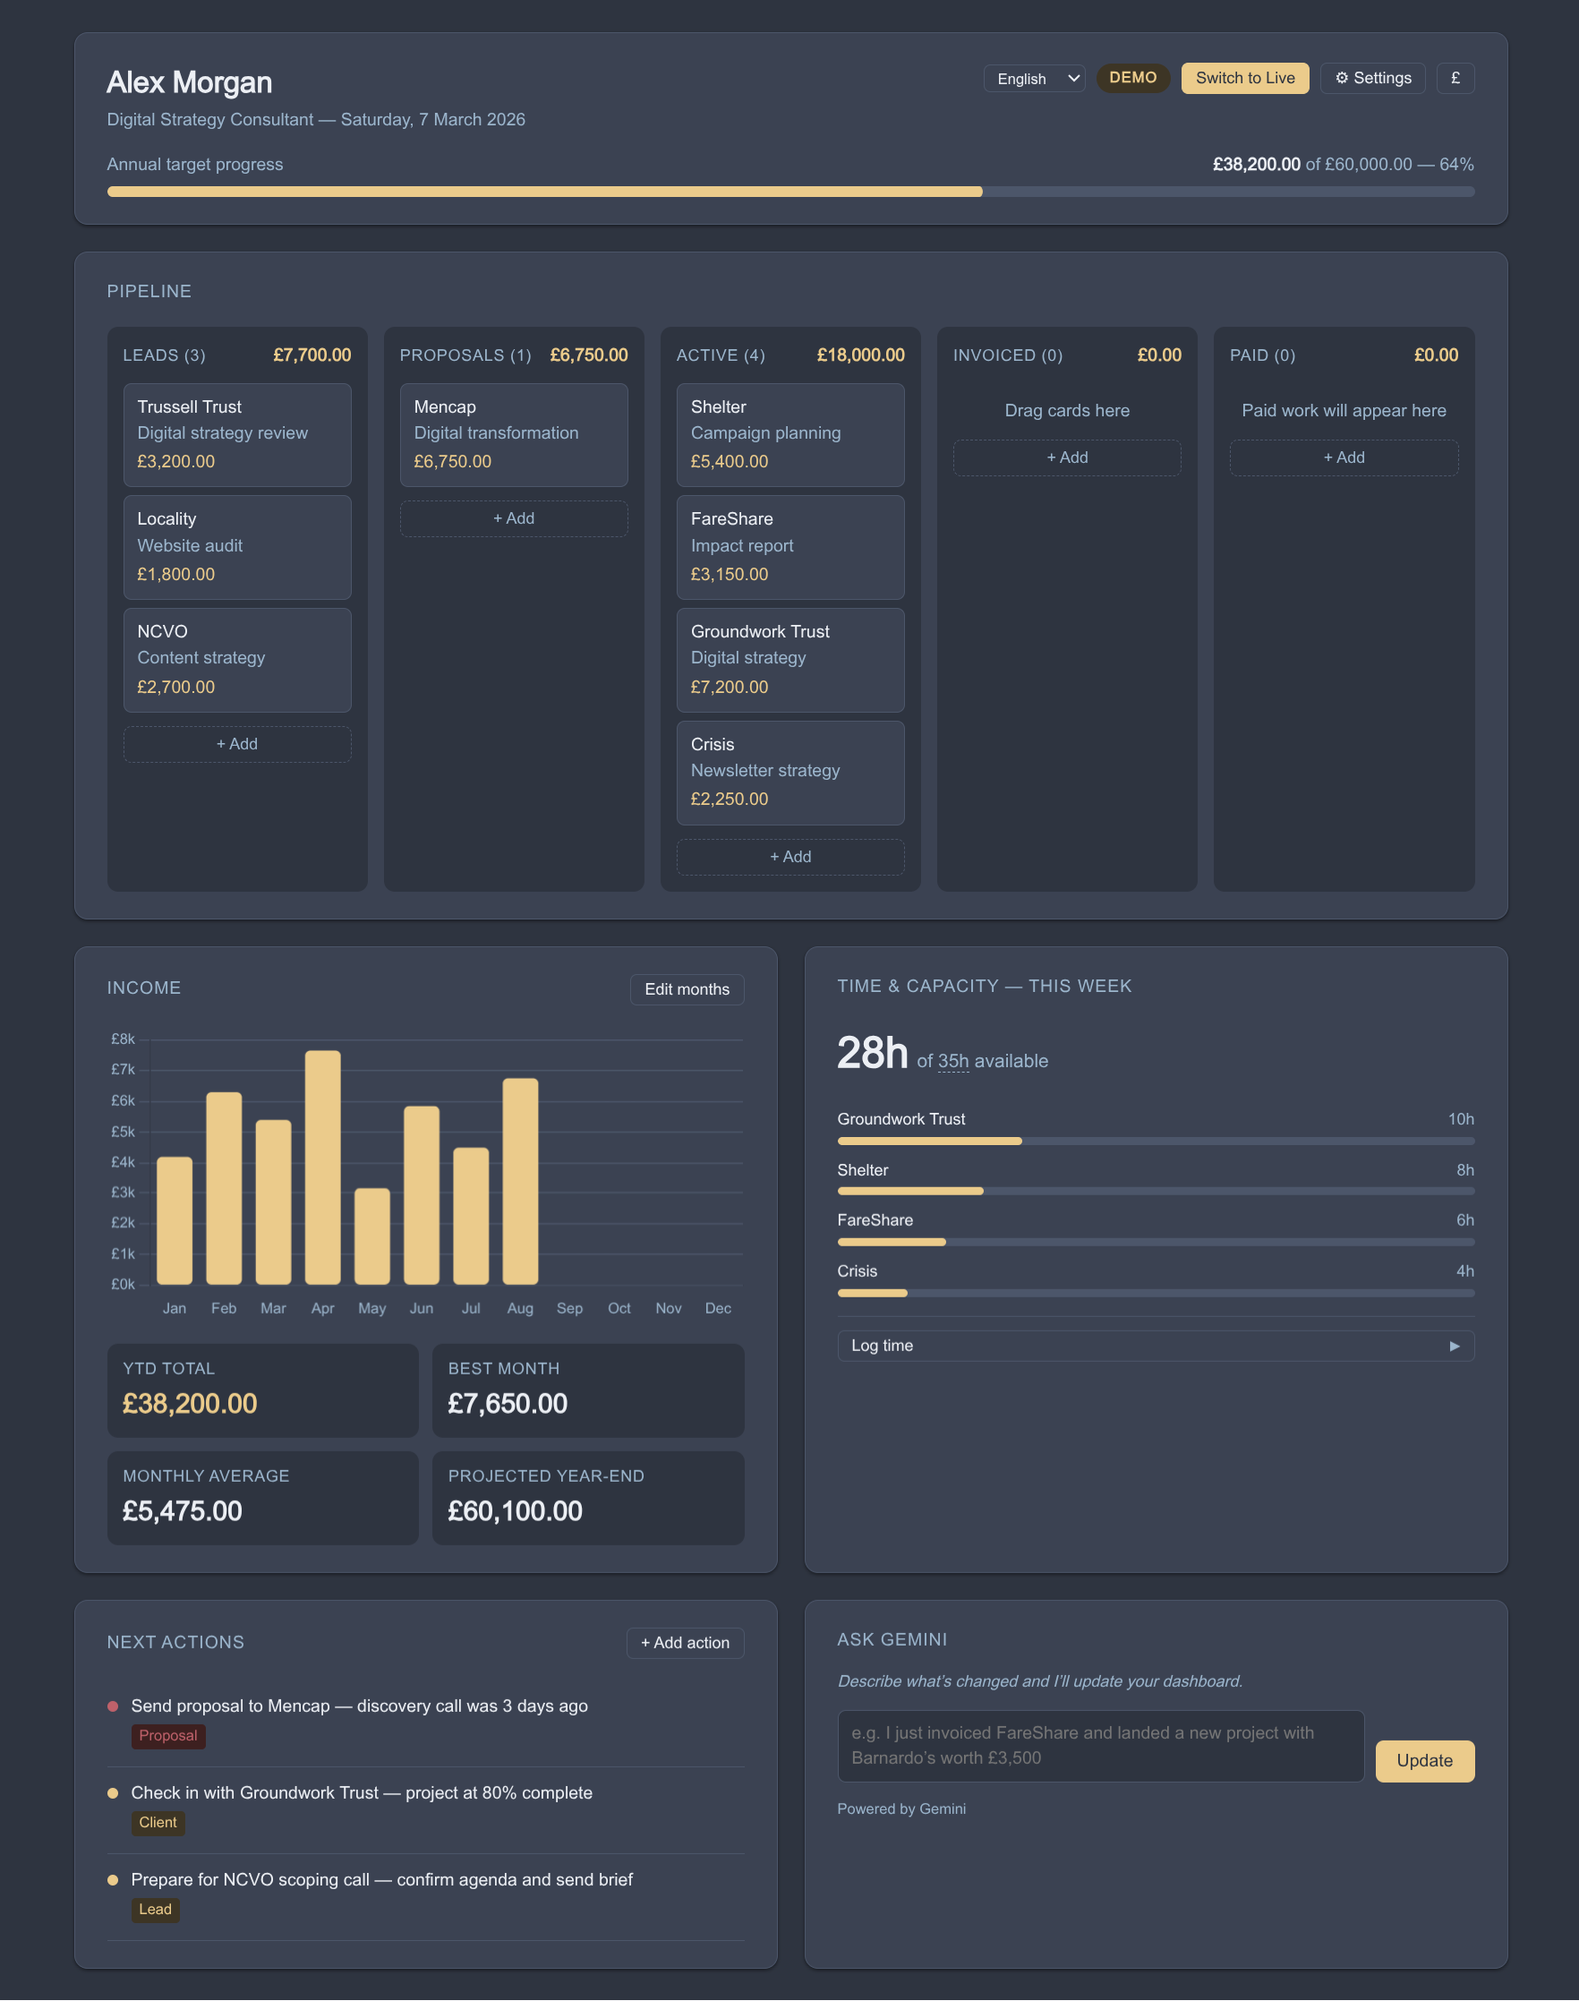
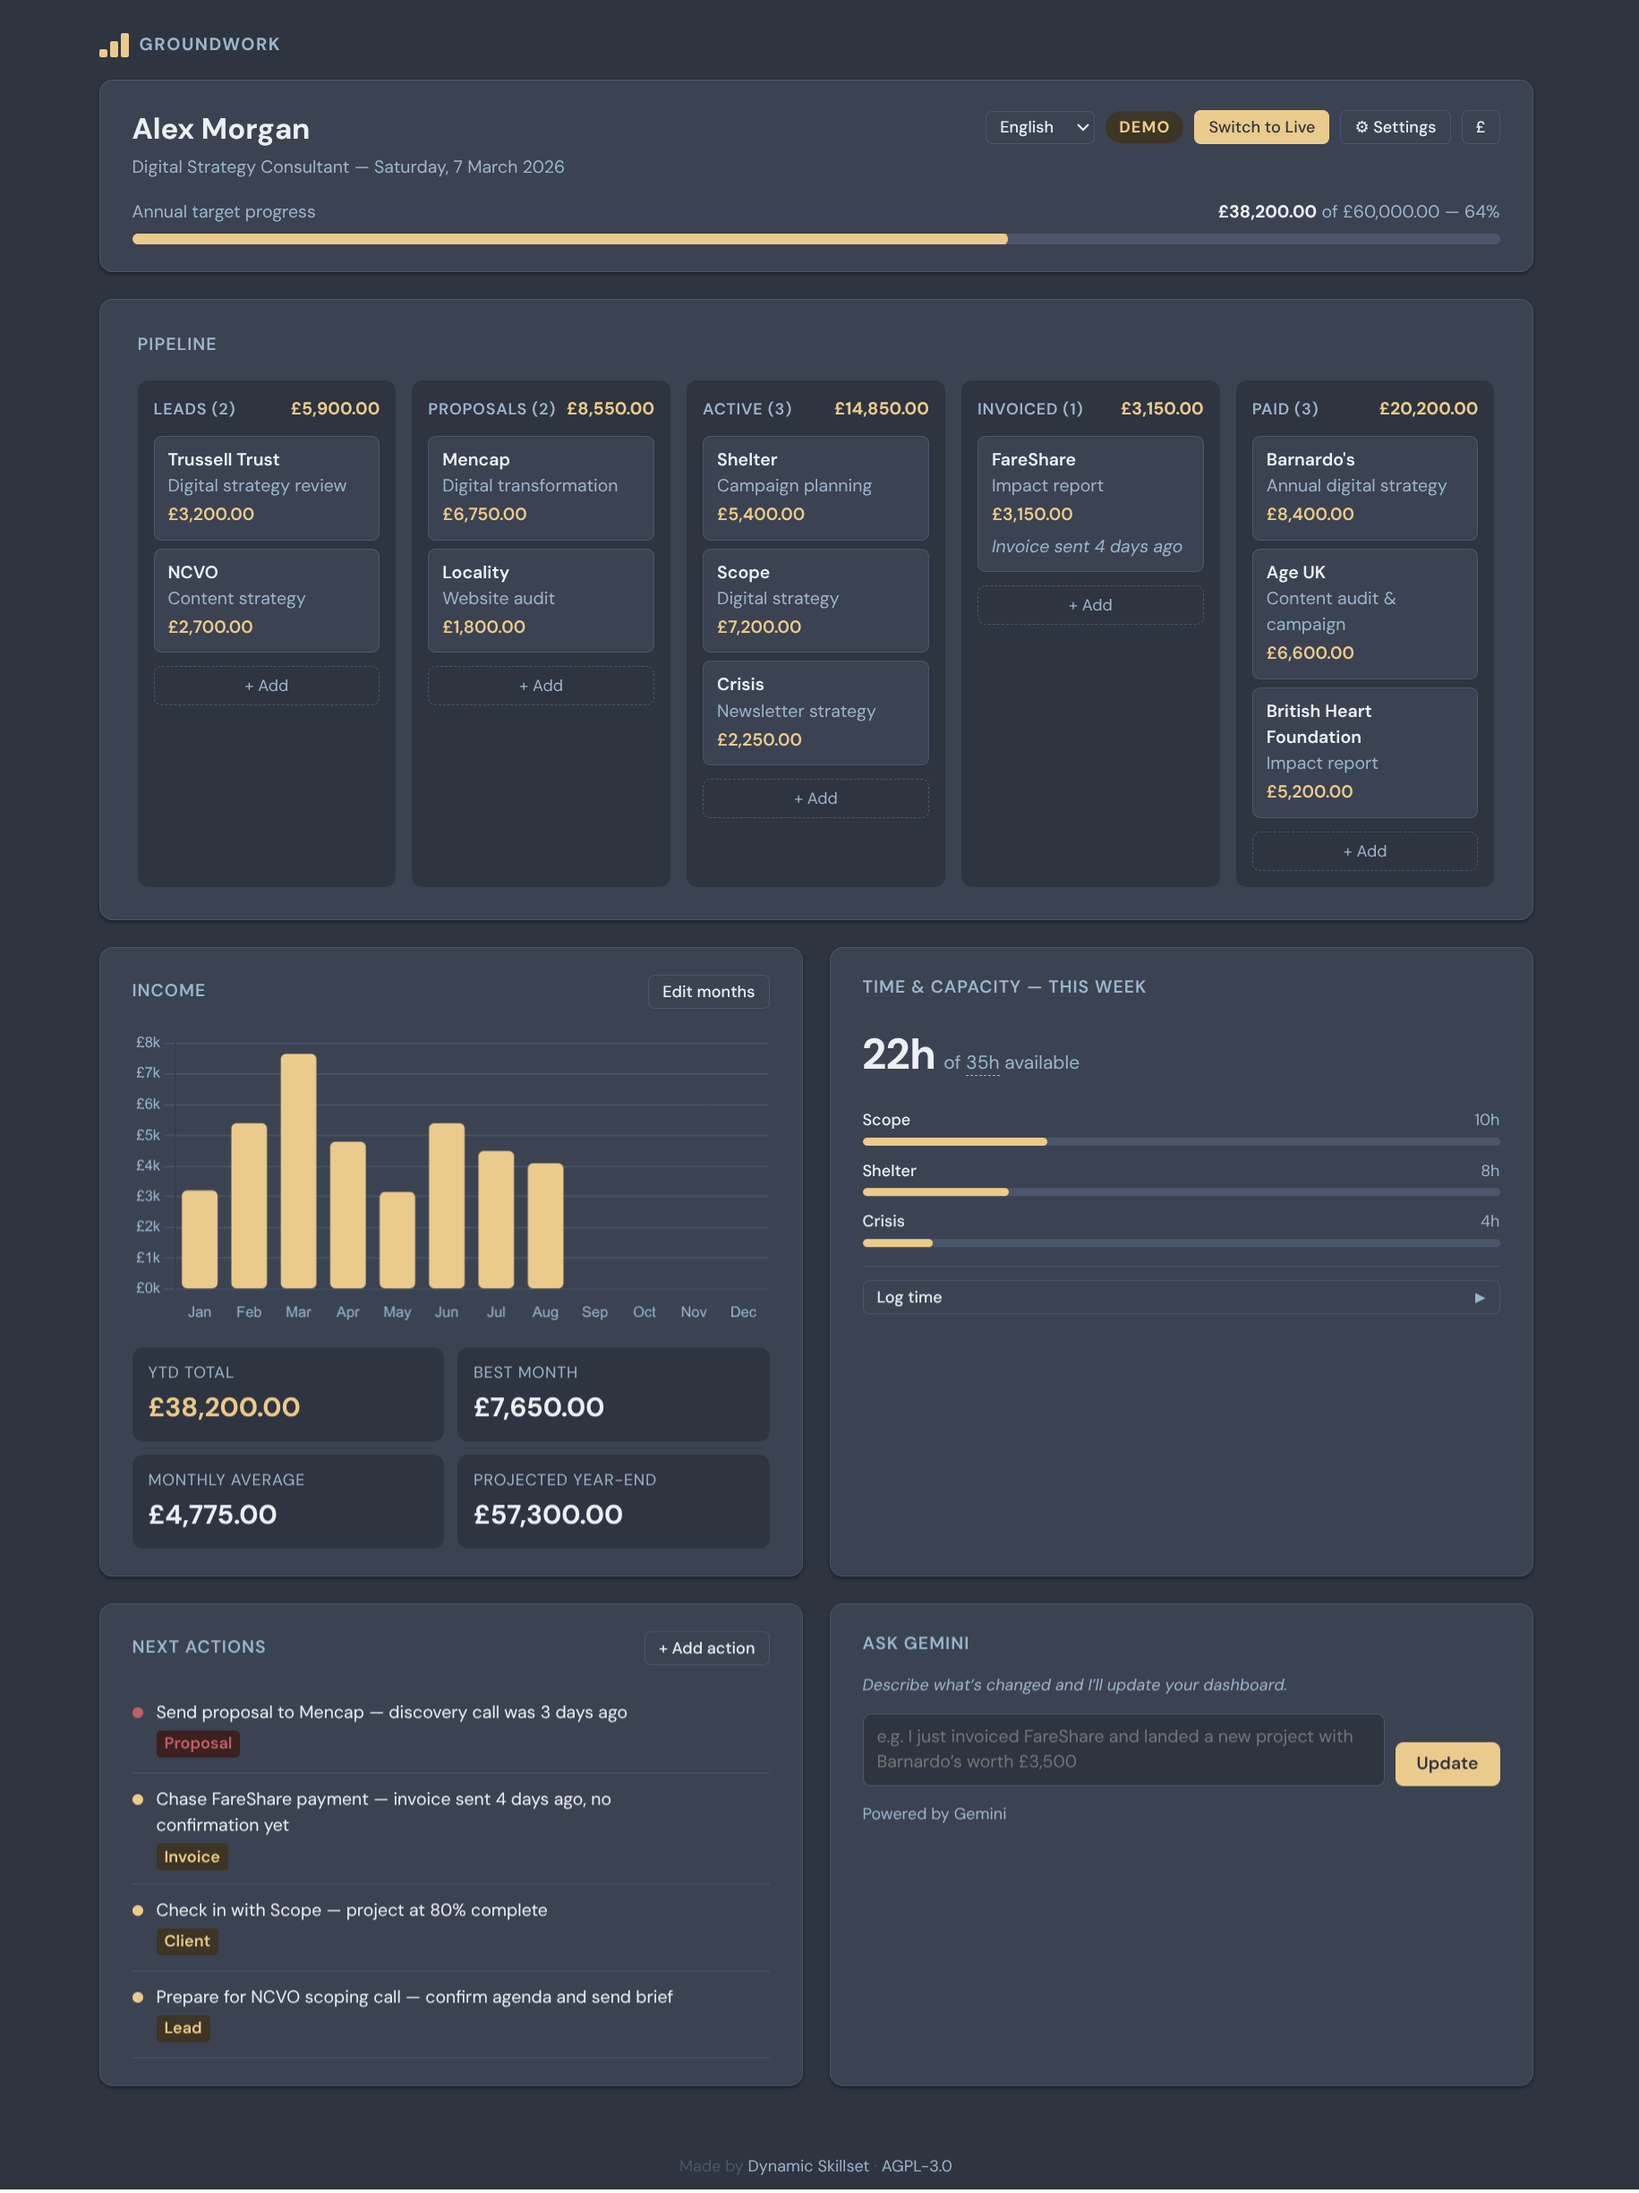
Accessibility: WCAG AA contrast for all accent colours and footer
- Introduce --teal-text CSS variable: auto-lightened version of the
  accent that guarantees 4.5:1 contrast on --surface for all 5 choices
- Replace all text/icon colour uses of var(--teal) with var(--teal-text);
  background, border, and decorative uses keep var(--teal) unchanged
- Aurora Purple and Aurora Orange are automatically lightened when used
  as text (e.g. pipeline values, tags, links) while buttons and bars
  retain the original deeper colour
- Fix footer text: was var(--border) at ~1.7:1; now var(--muted) at ~5:1
- Footer links gain underline for non-colour distinction
- Use proper WCAG relative luminance formula throughout
- Add .gitignore to exclude HANDOFF.md, PLAN.md, and docs/

diff --git a/index.html b/index.html
@@ -38,6 +38,7 @@
       --surface: #3b4252;
       --border: #4c566a;
       --teal: #88c0d0;
+      --teal-text: #88c0d0;
       --teal-light: #2a3d45;
       --amber: #ebcb8b;
       --amber-light: #3d3525;
@@ -150,7 +151,7 @@
     }
     .card-just-paid { animation: card-pay-flash 1.1s ease-out forwards; }
     @keyframes status-success-fade {
-      0%   { color: var(--teal); }
+      0%   { color: var(--teal-text); }
       100% { color: var(--muted); }
     }
     .chat-last-update.just-updated { animation: status-success-fade 2.5s ease-out forwards; }
@@ -188,7 +189,7 @@
     .pipeline-col-value {
       font-size: 13px;
       font-weight: 700;
-      color: var(--teal);
+      color: var(--teal-text);
     }
     .pipeline-card {
       background: var(--surface);
@@ -215,7 +216,7 @@
     }
     .stat-label { font-size: 12px; color: var(--muted); text-transform: uppercase; letter-spacing: 0.04em; }
     .stat-value { font-size: clamp(15px, 1.6vw, 20px); font-weight: 700; color: var(--text); margin-top: 2px; }
-    .stat-value.teal { color: var(--teal); }
+    .stat-value.teal { color: var(--teal-text); }
 
     .income-month-grid {
       display: grid;
@@ -316,7 +317,7 @@
       display: inline-block;
       font-size: 12px;
       background: var(--teal-light);
-      color: var(--teal);
+      color: var(--teal-text);
       border-radius: 3px;
       padding: 1px 6px;
       margin-top: 3px;
@@ -470,7 +471,7 @@
       text-transform: uppercase;
     }
     .mode-pill.demo { background: var(--amber-light); color: var(--amber); }
-    .mode-pill.live { background: var(--teal-light); color: var(--teal); }
+    .mode-pill.live { background: var(--teal-light); color: var(--teal-text); }
 
     .btn-sm {
       padding: 4px 10px;
@@ -542,7 +543,7 @@
       font-size: 13px; font-family: inherit;
       background: var(--bg); color: var(--text);
     }
-    .provider-saved { font-size: 12px; color: var(--teal); margin-top: 6px; }
+    .provider-saved { font-size: 12px; color: var(--teal-text); margin-top: 6px; }
 
     /* Onboarding modal steps */
     .onboarding-steps {
@@ -593,7 +594,7 @@
       font-size: 12px; cursor: pointer; margin-top: 4px;
       font-family: inherit;
     }
-    .pipeline-add-btn:hover { border-color: var(--teal); color: var(--teal); }
+    .pipeline-add-btn:hover { border-color: var(--teal); color: var(--teal-text); }
 
     /* Pipeline edit modal */
     .pipeline-form .onboarding-field { margin-bottom: 12px; }
@@ -725,7 +726,7 @@ section.panel-drag-over { outline: 2px dashed var(--teal); }
 
 /* Provider test status */
 .provider-test-status { font-size: 12px; margin-top: 6px; min-height: 16px; }
-.provider-test-status.ok { color: var(--teal); }
+.provider-test-status.ok { color: var(--teal-text); }
 .provider-test-status.fail { color: var(--danger); }
 .provider-test-status.pending { color: var(--muted); }
 .provider-badge {
@@ -762,7 +763,7 @@ section.panel-drag-over { outline: 2px dashed var(--teal); }
   flex-shrink: 0; white-space: nowrap;
 }
 .copy-btn:hover { background: var(--bg); }
-.copy-btn.copied { color: var(--teal); border-color: var(--teal); }
+.copy-btn.copied { color: var(--teal-text); border-color: var(--teal); }
 .provider-card.ollama-card { border-style: dashed; }
 .ollama-fields { display: grid; grid-template-columns: 1fr 1fr; gap: 8px; margin-bottom: 8px; }
 .ollama-fields input {
@@ -885,10 +886,10 @@ button:focus-visible,
   padding: 0 4px 8px;
   text-align: center;
   font-size: 12px;
-  color: var(--border);
+  color: var(--muted);
   line-height: 1.6;
 }
-.app-footer a { color: var(--muted); text-decoration: none; }
+.app-footer a { color: var(--muted); text-decoration: underline; text-underline-offset: 2px; }
 .app-footer a:hover { color: var(--text); }
 
 /* Reduced motion */
@@ -1063,14 +1064,27 @@ button:focus-visible,
       { color: '#d08770', light: '#3a2a25', name: 'Aurora Orange' },
     ];
 
+    function wcagLuminance(hex) {
+      const lin = c => { c /= 255; return c <= 0.04045 ? c / 12.92 : Math.pow((c + 0.055) / 1.055, 2.4); };
+      return 0.2126 * lin(parseInt(hex.slice(1,3),16)) + 0.7152 * lin(parseInt(hex.slice(3,5),16)) + 0.0722 * lin(parseInt(hex.slice(5,7),16));
+    }
+
     function accentNeedsDarkText(hex) {
-      // Returns true if the accent color is light enough to need dark text
-      const r = parseInt(hex.slice(1, 3), 16);
-      const g = parseInt(hex.slice(3, 5), 16);
-      const b = parseInt(hex.slice(5, 7), 16);
-      // Relative luminance (simplified)
-      const luminance = (0.299 * r + 0.587 * g + 0.114 * b) / 255;
-      return luminance > 0.55;
+      return wcagLuminance(hex) > 0.35;
+    }
+
+    function accessibleTextColor(hex) {
+      // Returns hex lightened to meet 4.5:1 contrast on --surface (L≈0.051)
+      const SURFACE_L = 0.051;
+      const needed = 4.5 * (SURFACE_L + 0.05) - 0.05 + 0.002; // ≈ 0.4065, small buffer for fp precision
+      const lin = c => { c /= 255; return c <= 0.04045 ? c / 12.92 : Math.pow((c + 0.055) / 1.055, 2.4); };
+      const delin = c => c <= 0.0031308 ? c * 12.92 : 1.055 * Math.pow(c, 1/2.4) - 0.055;
+      let lr = lin(parseInt(hex.slice(1,3),16)), lg = lin(parseInt(hex.slice(3,5),16)), lb = lin(parseInt(hex.slice(5,7),16));
+      const currentL = 0.2126*lr + 0.7152*lg + 0.0722*lb;
+      if (currentL >= needed) return hex;
+      const scale = needed / currentL;
+      const toHex = c => Math.min(255, Math.round(delin(Math.min(1, c)) * 255)).toString(16).padStart(2, '0');
+      return `#${toHex(lr*scale)}${toHex(lg*scale)}${toHex(lb*scale)}`;
     }
 
     function applyAccent(color) {
@@ -1078,7 +1092,7 @@ button:focus-visible,
       const r = document.documentElement.style;
       r.setProperty('--teal', accent.color);
       r.setProperty('--teal-light', accent.light);
-      // Ensure button text is legible against the accent background
+      r.setProperty('--teal-text', accessibleTextColor(accent.color));
       r.setProperty('--btn-on-accent', accentNeedsDarkText(accent.color) ? '#2e3440' : '#eceff4');
       localStorage.setItem('bizdev-accent', color);
       if (incomeChart) { incomeChart.destroy(); incomeChart = null; }
@@ -1631,7 +1645,7 @@ button:focus-visible,
           </div>
           <div style="display:flex;align-items:center;gap:10px;margin-top:8px;">
             <button class="btn btn-primary" id="prof-save">Save changes</button>
-            <span id="prof-saved" role="status" style="font-size:12px;color:var(--teal);display:none;">Saved ✓</span>
+            <span id="prof-saved" role="status" style="font-size:12px;color:var(--teal-text);display:none;">Saved ✓</span>
           </div>
           </div>
         </div>
@@ -1659,7 +1673,7 @@ button:focus-visible,
                   </label>
                 </div>
                 <div class="provider-hint">
-                  <a href="${p.url}" target="_blank" rel="noopener" style="color:var(--teal);">${p.hint} &rarr;</a>
+                  <a href="${p.url}" target="_blank" rel="noopener" style="color:var(--teal-text);">${p.hint} &rarr;</a>
                 </div>
                 <div class="provider-input-row">
                   <input type="password" id="key-${id}" placeholder="${p.placeholder}" autocomplete="off" spellcheck="false">
@@ -1690,7 +1704,7 @@ button:focus-visible,
             ).join('')}
           </div>
           <label style="display:flex;align-items:center;gap:10px;cursor:pointer;">
-            <input type="checkbox" id="hcToggle" ${isHighContrast() ? 'checked' : ''} style="width:16px;height:16px;accent-color:var(--teal);cursor:pointer;">
+            <input type="checkbox" id="hcToggle" ${isHighContrast() ? 'checked' : ''} style="width:16px;height:16px;accent-color:var(--teal-text);cursor:pointer;">
             <span style="font-size:13px;">High contrast mode</span>
           </label>
           <p style="font-size:12px;color:var(--muted);margin-top:4px;">Darker backgrounds, higher contrast text, and stronger borders.</p>
@@ -1725,11 +1739,11 @@ button:focus-visible,
             </span>
           </div>
           <input type="file" id="settingsImportInput" class="import-input" accept=".json">
-          <p id="settingsImportStatus" role="alert" style="font-size:12px;color:var(--teal);margin-top:8px;display:none;"></p>
+          <p id="settingsImportStatus" role="alert" style="font-size:12px;color:var(--teal-text);margin-top:8px;display:none;"></p>
 
           <hr style="border:none;border-top:1px solid var(--border);margin:16px 0;">
 
-          <a href="#" id="settingsTourLink" style="font-size:12px;color:var(--teal);">Take the tour &rarr;</a>
+          <a href="#" id="settingsTourLink" style="font-size:12px;color:var(--teal-text);">Take the tour &rarr;</a>
           </div>
         </div>
       </div>
@@ -1749,7 +1763,7 @@ button:focus-visible,
             <button class="btn btn-danger" id="yearEndConfirmYes" style="margin-left:6px;font-size:13px;padding:6px 14px;">Close the year</button>
             <button class="btn-sm" id="yearEndConfirmNo" style="margin-left:4px;">Cancel</button>
           </span>
-          <p id="yearEndDone" style="display:none;font-size:12px;color:var(--teal);margin-top:8px;"></p>
+          <p id="yearEndDone" style="display:none;font-size:12px;color:var(--teal-text);margin-top:8px;"></p>
           </div>
         </div>
       </div>
@@ -3027,7 +3041,7 @@ button:focus-visible,
         </div>
         ${!hasKey ? `
           <div class="chat-setup">
-            <p style="font-size:13px;color:var(--muted);margin-bottom:10px;">${t('noApiKey')} ${provider.name}. <a href="#" id="openSettingsFromChat" style="color:var(--teal);">${t('openSettingsLink')}</a> to add one — the rest of the dashboard works without it.</p>
+            <p style="font-size:13px;color:var(--muted);margin-bottom:10px;">${t('noApiKey')} ${provider.name}. <a href="#" id="openSettingsFromChat" style="color:var(--teal-text);">${t('openSettingsLink')}</a> to add one — the rest of the dashboard works without it.</p>
           </div>
         ` : `
           <p class="chat-last-update" id="lastUpdate" aria-live="polite" aria-atomic="true"></p>
